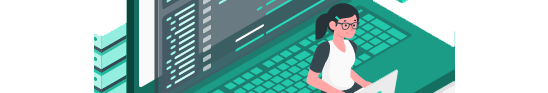
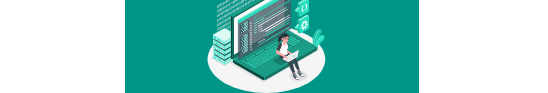
day 23

diff --git a/src/challenges/daytwentythree/index.tsx b/src/challenges/daytwentythree/index.tsx
@@ -1,0 +1,28 @@
+/* eslint-disable react/jsx-no-target-blank */
+import React from "react";
+import "./styles.css";
+import PageHeader from "../../components/Header";
+import landingImg from "../../assets/images/landing.svg"
+
+function DayTwentyThree() {
+  return (
+    <div id="page-day-twentythree" className="container">
+      <PageHeader title="Day 23 - Card Hover" link="challengesList" />
+      <main>
+      <div className="scene">
+        <div className="cardd">
+          <div className="imgBx">
+            <img src={landingImg} alt=""></img>
+          </div>
+          <div className="content">
+            <h2>30 Dias de CSS</h2>
+            <p>Desafio que visa ajudar suas habilidades de codificação fazendo mini projetos diarios.</p>
+          </div>
+        </div>
+      </div>
+      </main>
+    </div>
+  );
+}
+
+export default DayTwentyThree;

diff --git a/src/challenges/daytwentythree/styles.css b/src/challenges/daytwentythree/styles.css
@@ -1,0 +1,46 @@
+.scene .cardd {
+  position: relative;
+  max-width: 300px;
+  height: 300px;
+  margin: 30px 10px;
+  padding: 20px 15px;
+  display: flex;
+  flex-direction: column;
+  box-shadow: 0 5px 202px rgba(0,0,0,0.5);
+  transition: 0.5s ease-in-out;
+}
+
+.scene .cardd:hover {
+  height: 420px;
+}
+
+.scene .cardd .imgBx {
+  position: relative;
+  width: 260px;
+  height: 260px;
+  z-index: 1;
+}
+
+.scene .cardd .imgBx img {
+  max-width: 100%;
+  border-radius: 4px;
+  margin-left: 2px;
+}
+
+.scene .cardd .content {
+  position: relative;
+  margin-top: -140px;
+  padding: 10px 15px;
+  text-align: center;
+  color: #111;
+  visibility: hidden;
+  opacity: 0;
+  transition: 0.3s ease-in-out
+}
+
+.scene .cardd:hover .content {
+  visibility: visible;
+  opacity: 1;
+  margin-top: 2px;
+  transition-delay: 0.3s;
+}

diff --git a/src/pages/ChallengesList/index.tsx b/src/pages/ChallengesList/index.tsx
@@ -24,6 +24,7 @@ import dayNineteenImg from '../../assets/images/daynineteen.png';
 import dayTwentyImg from '../../assets/images/daytwenty.png';
 import dayTwentyOneImg from '../../assets/images/daytwentyone.png';
 import dayTwentyTwoImg from '../../assets/images/daytwentytwo.png';
+import dayTwentyThreeImg from '../../assets/images/daytwentythree.png';
 
 import { Link } from "react-router-dom";
 
@@ -119,6 +120,10 @@ function ChallengesList() {
         <p>Day 22 - Card Hover</p>
         <Link to="/daytwentytwo">
           <img src={dayTwentyTwoImg} alt="Day Twenty Two" />
+        </Link>
+        <p>Day 23 - Card Hover</p>
+        <Link to="/daytwentythree">
+          <img src={dayTwentyThreeImg} alt="Day Twenty Three" />
         </Link>
       </main>
     </div>

diff --git a/src/routes.tsx b/src/routes.tsx
@@ -25,6 +25,7 @@ import DayNineteen from './challenges/daynineteen';
 import DayTwenty from './challenges/daytwenty';
 import DayTwentyOne from './challenges/daytwentyone';
 import DayTwentyTwo from './challenges/daytwentytwo';
+import DayTwentyThree from './challenges/daytwentythree';
 
 function Routes() {
     return (
@@ -54,6 +55,7 @@ function Routes() {
             <Route path="/daytwenty" component={DayTwenty}/>
             <Route path="/daytwentyone" component={DayTwentyOne}/>    
             <Route path="/daytwentytwo" component={DayTwentyTwo}/>   
+            <Route path="/daytwentythree" component={DayTwentyThree}/> 
         </BrowserRouter>
     )
 }
